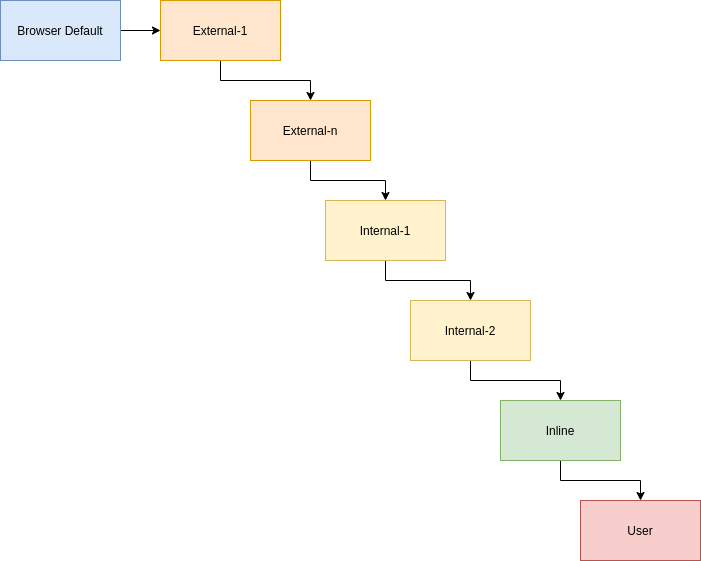
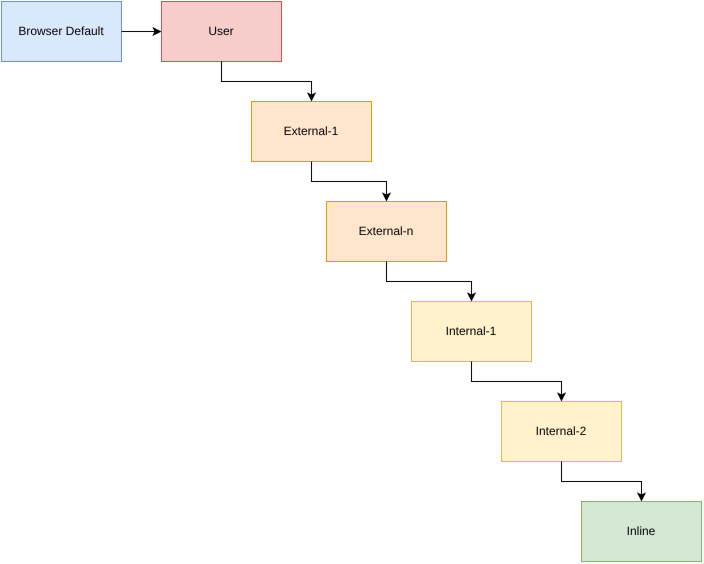
fix(lecture-4): user styles lose to author styles, the initial containing block, border is kept in flow, position applies to inline too
Re-export cascading.png from the corrected draw.io source, drop the fish
chart that counted inline and !important as specificity digits, and spell
Axes. Positioning facts were measured in headless Chrome.

diff --git a/content/lectures/lecture-4/index.html b/content/lectures/lecture-4/index.html
@@ -758,16 +758,18 @@ h3~p {color:green;}
       display: flex;
       flex-direction: row;
       justify-content: space-evenly;
-      width: 120%;
+      align-items: flex-start;
     "
   >
     <img
       src="./img/cascading.png"
-      alt="the order styles are applied in: browser, external, internal, inline"
+      alt="the order styles are applied in, weakest first: browser default, user, external, internal, inline"
+      width="560"
     />
-    <p style="text-align: left; margin: 20px">
+    <p style="text-align: left; margin: 20px; font-size: 0.8em">
       Assuming there is not any conflicting style and external styles are linked
-      before internal styles in the head
+      before internal styles in the head. User means the reader's normal styles;
+      only a user <code>!important</code> beats the page.
     </p>
   </div>
 </section>
@@ -869,13 +871,6 @@ code {color: red;}
     src="./img/specificity.svg"
     alt="Specificity as three counts: IDs, then classes, attributes and pseudo-classes, then types and pseudo-elements. p scores 0 0 1, p.c scores 0 1 1, p#i scores 1 0 1 and wins. A style attribute is not a selector and wins before specificity is compared. One ID beats eleven classes; the universal selector and combinators add nothing."
     width="860"
-  />
-</section>
-<section>
-  <img
-    src="img/specifishity.png"
-    style="height: 800px"
-    alt="a chart ranking selector specificity from type through class to id and inline"
   />
 </section>
 <section>
@@ -1255,8 +1250,9 @@ p#red{
     <h2>Specified Positioning</h2>
     <ul>
       <li>
-        Positioning of <span class="hl-orange">block-level</span> element can be
-        specified using the <code class="hl-green">position</code> property
+        Positioning of <span class="hl-orange">any element</span>, block-level
+        or inline, can be specified using the
+        <code class="hl-green">position</code> property
       </li>
     </ul>
     <img
@@ -1333,8 +1329,8 @@ p#red{
       <span class="hl-orange">normal position</span>
     </li>
     <li>
-      The reserved space (box model: content + padding + margin) for the element
-      is still preserved in normal flow
+      The reserved space (box model: content + padding + border + margin) for
+      the element is still preserved in normal flow
     </li>
     <li>Position is specified by top, left, right, bottom properties, e.g.,</li>
     <dl>
@@ -1406,15 +1402,16 @@ p.demo.five {
     </li>
     <ul>
       <li>
-        If no such element is found, the containing block is
-        <code>&lt;html&gt;</code>
+        If no such element is found, the containing block is the
+        <span class="hl-orange">initial containing block</span>: a
+        viewport-sized rectangle, not the <code>&lt;html&gt;</code> element
       </li>
     </ul>
     <li>Absolute positioned elements are removed from the normal flow</li>
     <ul>
       <li>
         The document and other elements behave like the positioned element does
-        not exist (no space for content, padding, margin)
+        not exist (no space for content, padding, border, margin)
       </li>
       <li>The positioned elements can overlap other elements</li>
       <li>
@@ -1475,7 +1472,7 @@ p.demo.five {
     <ul>
       <li>
         The document and other elements behave like the fixed positioned element
-        does not exist (no content, padding, margin)
+        does not exist (no content, padding, border, margin)
       </li>
       <li>Fixed positioned elements can overlap other elements</li>
     </ul>
@@ -1967,7 +1964,7 @@ h1 {
 
 <section>
   <section>
-    <h2>FlexBox Axises</h2>
+    <h2>FlexBox Axes</h2>
 
     <img
       src="./img/flex-axes.svg"

diff --git a/content/lectures/lecture-4/CLAUDE.md b/content/lectures/lecture-4/CLAUDE.md
@@ -1,6 +1,6 @@
 # Lecture 4 — CSS
 
-211 slides, 36 vertical stacks — the second-largest deck. Topics (TOC indices):
+210 slides, 36 vertical stacks — the second-largest deck. Topics (TOC indices):
 `0` Introduction · `1` Style Types · `2` Selectors · `3` Cascading ·
 `4` Box-Model · `5` Layout Design · `6` Miscellaneous · `7` CSS Tools.
 
@@ -37,7 +37,7 @@ Hand-written SVGs in `img/`, drawn for the league background (see the root
 | `margin-collapse.svg` | Vertical Margin Collapse (replaced the book scan)     |
 | `positioning.svg`     | Specified Positioning — static, relative, absolute    |
 | `float-clear.svg`     | Clearing around Float Elements                        |
-| `flex-axes.svg`       | FlexBox Axises (replaced `flex-axises.png`)           |
+| `flex-axes.svg`       | FlexBox Axes (replaced `flex-axises.png`)             |
 | `justify-content.svg` | justify-content (replaced the two `flex-justify-*`)   |
 | `grid-lines.svg`      | Grid Lines — new sub-slide after Placing Items        |
 
@@ -68,15 +68,34 @@ If you change one, measure again:
 
 The generator scripts were throwaway; edit the SVG directly and re-render it.
 
+One draw.io diagram remains: `img/cascading.png`, exported from
+`diag/cascading.drawio` (the "Cascading" slide). Order, weakest first: Browser
+Default, User, External-1…n, Internal-1…2, Inline. User sits below the author
+sheets because normal user styles lose to author styles; only user
+`!important` beats them. This agrees with `cascade-order.svg` (browser < author
+< author `!important`; `style=""` beats every selector). Export with
+`docker run --rm -v "$PWD":/data rlespinasse/drawio-export --format png --output out /data`
+on a copy of the `.drawio`, then copy `out/cascading-Page-1.png` over the PNG.
+
+The fish chart `specifishity.png` was removed: it used the old 4-part notation
+that counts `style=""` and `!important` as specificity digits, which contradicts
+`specificity.svg`.
+
+## Positioning facts (measured in headless Chrome)
+
+- With no positioned ancestor, an absolute box uses the **initial containing
+  block**, not `<html>`. Test: `html { margin-left: 100px; height: 300px }` in
+  an 800-wide window; `position: absolute; left: 0; bottom: 0` landed at x = 0
+  and at the viewport bottom (513), not at the html box (x = 100, bottom 310);
+  `width: 50%` gave 400, half the viewport, not half of html (700).
+- Relative positioning keeps the **border box plus margin** in flow: a
+  relative `div` (`height 20, padding 5, border 10, margin 7`, `top: 100px`)
+  left the next sibling at 30 + 50 + 7 = 87.
+- `position` applies to **all elements**: a relative inline `span` stayed
+  `display: inline` and moved by its `left: 20px`.
+
 ## Cautions
 
 - Two `width="350px"` / `width="850px"` attributes remain; dimension attributes
   take a bare integer.
-- `img/cascading.png` (from `diag/cascading.drawio`) puts **User** after
-  Inline as the strongest layer. That is wrong: normal user styles lose to
-  author styles; only user `!important` beats them. Fix it in the `.drawio`.
-- "Absolute Positioning" says that with no positioned ancestor the containing
-  block is `<html>`. It is the _initial containing block_ (a viewport-sized
-  rectangle), not the `html` element.
-- `diag/cascading.drawio` is the source for the cascade diagram.
 - The one hands-on section here uses `class="hands-on"` on the `<section>`.
